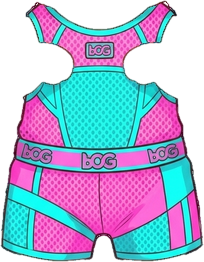
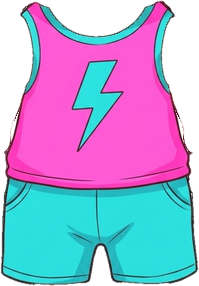
보이그룹 의상 4벌 다시(나비·눈꽃·홀로그램·네온 민소매), 나비 재킷 조끼 연결

diff --git a/index.html b/index.html
@@ -1311,7 +1311,7 @@ document.body.insertAdjacentHTML('afterbegin', puppetDefs());
 const blinkDelay = m => `animation-delay:${-((m.hue || 0) % 46) / 10}s`;
 // ===== 2D 고양이 아이돌 (그림 AI 그림 + 휘는 메시 애니메이션, cat2d.js) =====
 const CATS = [['cheese', '치즈'], ['tuxedo', '턱시도'], ['calico', '삼색'], ['black', '까망'], ['white', '하양'], ['tabby', '고등어'], ['siamese', '샴'], ['gray', '러블']];
-const CATV = '?v=20';
+const CATV = '?v=21';
 // 옷·소품 (art/cat/item-*.png, 좌표는 items.json). 무대에서는 콘셉트 의상, 평소엔 멤버별로 고른 옷
 const WEAR_CLOTH = [[null, '없음'], ['hoodie', '후드 조끼'], ['sport', '운동복'], ['dress', '프릴 원피스'], ['sailor', '세일러'], ['leather', '가죽 조끼'], ['cape', '별빛 망토'], ['polka', '물방울 원피스'], ['jersey', '힙합 저지'], ['ballad', '흰 드레스'], ['reddress', '빨간 드레스']];
 const WEAR_ACC = [[null, '없음'], ['ribbon', '리본'], ['crown', '왕관'], ['headset', '헤드셋 마이크'], ['beret', '베레모'], ['cap', '야구 모자'], ['sunglasses', '선글라스'], ['flower', '꽃 화관'], ['bowtie', '나비넥타이']];
@@ -1362,7 +1362,7 @@ function wearFor(m, kind) {   // 이 장면에서 입을 옷·소품
 const BOY_NAME = { 'dress-b': '파스텔 니트 조끼', 'polka-b': '물방울 셔츠 + 멜빵', 'ballad-b': '흰 린넨 셔츠', 'reddress-b': '빨간 벨벳 재킷 조끼', 'sailor-b': '세일러 칼라 셔츠', 'cape-b': '별빛 망토 + 셔츠',
   'st-fresh1-b': '민트 줄무늬 티 + 반바지', 'st-fresh2-b': '데이지 데님 멜빵', 'st-cute1-b': '노랑 토끼 조끼', 'st-cute2-b': '딸기 셔츠 + 멜빵', 'st-cute3-b': '하트 니트 조끼', 'st-dream1-b': '달빛 시폰 셔츠 조끼', 'st-dream2-b': '나비 장식 재킷 조끼', 'st-dream3-b': '은하수 재킷 조끼',
   'st-retro3-b': '체크 조끼 + 나비넥타이', 'st-hiphop3-b': '네온 바람막이 조끼', 'st-ballad1-b': '네이비 벨벳 정장 조끼', 'st-ballad2-b': '베이지 꽈배기 니트 조끼', 'st-ballad3-b': '진주 실크 셔츠', 'st-sexy1-b': '블랙 시퀸 재킷', 'st-sexy2-b': '와인 벨벳 셔츠', 'st-sexy3-b': '실버 메탈릭 재킷',
-  'ev-yearend1-b': '화이트 골드 턱시도 조끼', 'ev-yearend2-b': '눈꽃 벨벳 재킷 조끼', 'ev-yearend3-b': '퍼 장식 레드 윈터 재킷', 'ev-festival3-b': '네온 메시 민소매', 'ev-campus2-b': '응원단 조끼', 'ev-campus3-b': '니트 조끼 + 체크 바지', 'ev-concert1-b': '크리스탈 재킷 조끼', 'ev-concert3-b': '홀로그램 재킷 조끼' };
+  'ev-yearend1-b': '화이트 골드 턱시도 조끼', 'ev-yearend2-b': '눈꽃 벨벳 재킷 조끼', 'ev-yearend3-b': '퍼 장식 레드 윈터 재킷', 'ev-festival3-b': '네온 번개 민소매', 'ev-campus2-b': '응원단 조끼', 'ev-campus3-b': '니트 조끼 + 체크 바지', 'ev-concert1-b': '크리스탈 재킷 조끼', 'ev-concert3-b': '홀로그램 재킷 조끼' };
 const gk = k => k && S && S.gender === 'boy' && ITEMINFO[k + '-b'] ? k + '-b' : k;
 const boyName = (k, l) => S && S.gender === 'boy' && ITEMINFO[k + '-b'] && BOY_NAME[k + '-b'] ? BOY_NAME[k + '-b'] : l;
 const itemImgs = list => list.map(gk).map(k => { const it = ITEMINFO[k]; return it ? `<img class="witem" src="art/cat/item-${k}.png${CATV}" style="left:${it.x / 4.48}%;top:${it.y / 6}%;width:${it.w / 4.48}%;height:${it.h / 6}%" alt="">` : ''; }).join('');

diff --git a/sw.js b/sw.js
@@ -1,5 +1,5 @@
 // 인터넷이 없어도 열리도록 앱 파일을 저장해 둠. 앱을 고치면 VERSION 숫자를 올릴 것.
-const VERSION = "v34";
+const VERSION = "v35";
 const FILES = ["./", "index.html", "manifest.webmanifest", "icon-180.png", "icon-192.png", "icon-512.png"];
 self.addEventListener("install", e => { e.waitUntil(caches.open(VERSION).then(c => c.addAll(FILES))); self.skipWaiting(); });
 self.addEventListener("activate", e => { e.waitUntil(caches.keys().then(ks => Promise.all(ks.filter(k => k !== VERSION).map(k => caches.delete(k))))); self.clients.claim(); });
